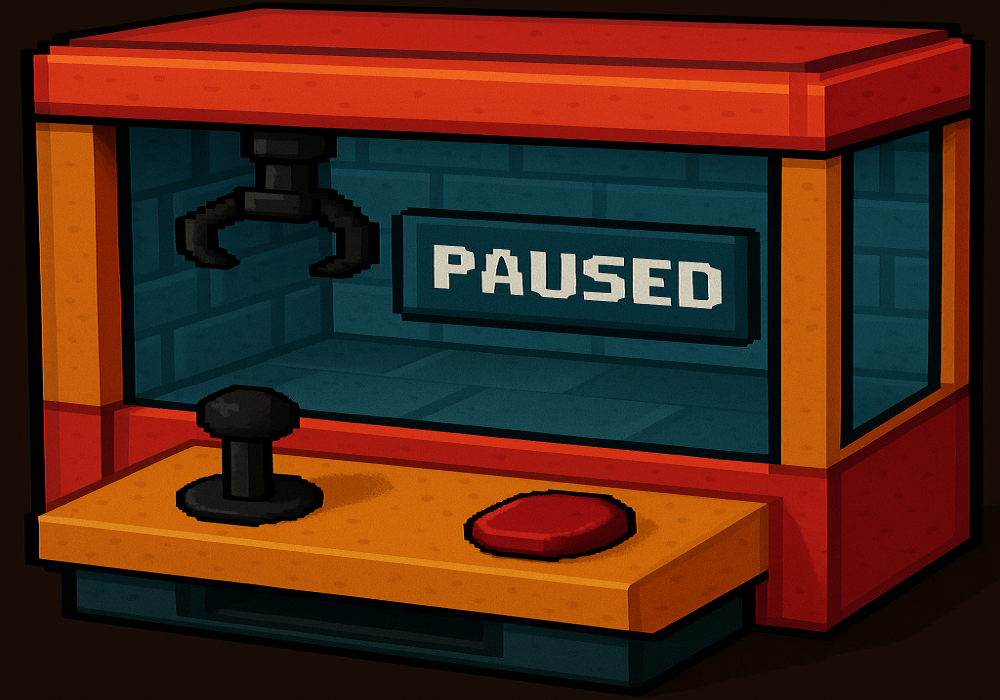
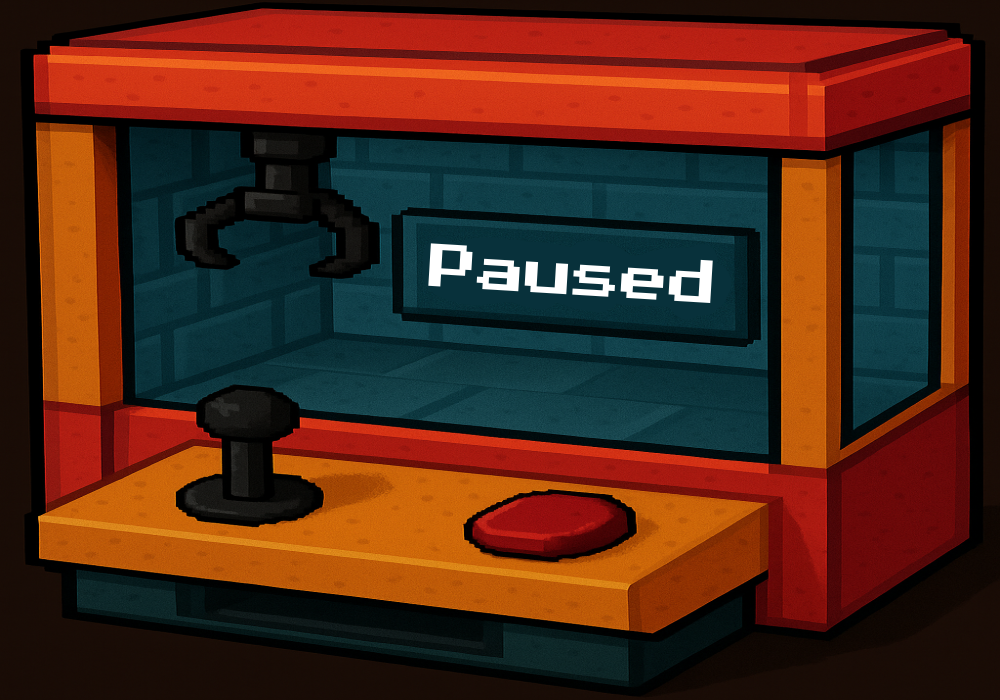
Inclusao de readme

Changed region(s): [[0.403, 0.33, 0.744, 0.45]]

diff --git a/main.py b/main.py
@@ -14,7 +14,7 @@ tamanho = (1000,700)
 relogio = pygame.time.Clock()
 tela = pygame.display.set_mode(tamanho) 
 pygame.display.set_caption("A Garra")
-icone  = pygame.image.load("recursos/ursinho_dourado.png")
+icone  = pygame.image.load("recursos/icoUrsinho_dourado.ico")
 pygame.display.set_icon(icone)
 branco = (255,255,255)
 preto = (0, 0 ,0 )
@@ -24,7 +24,6 @@ fundoJogo = pygame.image.load("recursos/telaJogo.png")
 fundoPerdeu = pygame.image.load("recursos/telaPerdeu.png")
 maquinaCima = pygame.image.load("recursos/telaJogoMaquinaCima.png")
 joyStick = pygame.image.load("recursos/telaJoySticksemfundo.png")
-fundoPause = pygame.image.load("recursos/paused.png")
 buracoUrso = pygame.image.load("recursos/buracoUrso.png")
 engrenagem = pygame.image.load("recursos/engrenagemSemfundo.png").convert_alpha()
 somCaptura = pygame.mixer.Sound("recursos/pickup_2.wav")
@@ -118,9 +117,9 @@ def jogar():
     ursosVogaisPegos = []
     ursosConsoantesPegos = []
 
-    urso_img = pygame.image.load("recursos/ursinho_dourado.png").convert_alpha()
+    ursoDourado = pygame.image.load("recursos/ursinho_dourado.png").convert_alpha()
     tamanho = 36
-    urso_img = pygame.transform.scale(urso_img, (tamanho, tamanho))
+    ursoDourado = pygame.transform.scale(ursoDourado, (tamanho, tamanho))
 
     ursoAleatorioXMin = 750
     ursoAleatorioXMax = 900
@@ -133,8 +132,8 @@ def jogar():
 
     # Direção de movimento aleatória
     velocidade = 0.5
-    dx = random.uniform(-1, 1)
-    dy = random.uniform(-1, 1)
+    direcaoAleatoriaX = random.uniform(-1, 1)
+    direcaoAleatoriaY = random.uniform(-1, 1)
 
 
     # Temporizador para trocar a direção
@@ -143,7 +142,7 @@ def jogar():
 
     angulo = 0
     tempo = 0
-    raio_base = 64
+    raioBase = 64
 
     while True:
         eventos = pygame.event.get()
@@ -173,6 +172,10 @@ def jogar():
             elif evento.type == pygame.KEYDOWN and evento.key == pygame.K_SPACE:
                 pause = True
                 while pause:
+                    if ptbr:
+                        fundoPause = pygame.image.load("recursos/pausado.png")
+                    else:
+                        fundoPause = pygame.image.load("recursos/paused.png")
                     tela.blit(fundoPause, (0,0))
                     pygame.display.update()
         
@@ -216,7 +219,7 @@ def jogar():
         else:
             texto = fontePontos.render("Points: "+str(pontos), True, branco)
 
-        tela.blit(texto, (470,65))
+        tela.blit(texto, (400,55))
         if ptbr:
             texto = fonteMenu.render("Pressione Espaço para Pausar o Jogo", True, branco) 
         else: 
@@ -226,7 +229,6 @@ def jogar():
         
         garraRect = pygame.Rect(posicaoXGarra, posicaoYGarra, larguraGarra, alturaGarra)
 
-        
         for nomeUrso, dadosUrso in ursos.items():
             ursoRect = pygame.Rect(dadosUrso[1], dadosUrso[2], larguraUrso, alturaUrso)    
         
@@ -268,18 +270,18 @@ def jogar():
             escreverDados(nome, pontos)
             perdeu()
 
-        if len(ursosVogaisPegos) == 1:
+        if len(ursosVogaisPegos) == 5:
             print("vitoria")
             telaVitoria()
 
         # Mover o ursinho
-        x += dx * velocidade
-        y += dy * velocidade
+        x += direcaoAleatoriaX * velocidade
+        y += direcaoAleatoriaY * velocidade
 
         if x < ursoAleatorioXMin or x > ursoAleatorioXMax:
-            dx *= -1
+            direcaoAleatoriaX *= -1
         if y < ursoAleatorioYMin or y > ursoAleatorioYMax:
-            dy *= -1
+            direcaoAleatoriaY *= -1
 
         # Trocar direção a cada intervalo de tempo
         agora = pygame.time.get_ticks()
@@ -288,31 +290,32 @@ def jogar():
             dy = random.uniform(-1, 1)
             ultimo_tempo = agora
 
-        # Desenhar o ursinho na tela
-        tela.blit(urso_img, (int(x - tamanho // 2), int(y - tamanho // 2)))
+        tela.blit(ursoDourado, (int(x - tamanho // 2), int(y - tamanho // 2)))
 
 
         # Atualiza o ângulo e o fator de escala (pulsação)
         angulo += 0.75
         tempo += 0.05
         escala = 1 + 0.1 * math.sin(tempo)  # Efeito de pulsar
-        tamanho = int(raio_base * 2 * escala)
+        tamanho = int(raioBase * 2 * escala)
         
         # Redimensiona e rotaciona a imagem
-        engrenagem_escalada = pygame.transform.smoothscale(engrenagem, (tamanho, tamanho))
-        engrenagem_rotacionada = pygame.transform.rotate(engrenagem_escalada, angulo)
+        engrenagemEscalada = pygame.transform.smoothscale(engrenagem, (tamanho, tamanho))
+        engrenagemRotacionada = pygame.transform.rotate(engrenagemEscalada, angulo)
 
-        # Calcula posição para o canto superior direito
-        engrenagem_rect = engrenagem_rotacionada.get_rect(topright=(1050, -50))
+        engrenagemRect = engrenagemRotacionada.get_rect(topright=(1050, -50))
 
-        tela.blit(engrenagem_rotacionada, engrenagem_rect)
+        tela.blit(engrenagemRotacionada, engrenagemRect)
 
         pygame.display.update()
         relogio.tick(60)
 
 
 def telaVitoria():
-    fundoVitoria = pygame.image.load("recursos/telaVitoria.png")
+    if ptbr:
+        fundoVitoria = pygame.image.load("recursos/telaVitoria.png")
+    else:
+        fundoVitoria = pygame.image.load("recursos/telaVictory.png")
     textoVitoria = fonteNome.render(f"{nome}", True, branco)
 
     larguraButtonStart = 350
@@ -372,7 +375,10 @@ def telaVitoria():
 
 def telaBoasVindas():
     # Carregar fundo da tela de boas-vindas
-    fundoBoasVindas = pygame.image.load("recursos/telaBoasVindas.png")
+    if ptbr:
+        fundoBoasVindas = pygame.image.load("recursos/telaBoasVindas.png")
+    else:
+        fundoBoasVindas = pygame.image.load("recursos/telaWelcome.png")
     textoBemVindo = fonteNome.render(f"{nome}", True, branco)
     falar("Bem vindo", nome) if ptbr else falar("Welcome", nome)
 
@@ -392,7 +398,7 @@ def telaBoasVindas():
 
 
 def start():
-    global ptbr
+    global ptbr, falaResultado
     ptbr = True
     def botoes(caminhoButtonPlay, caminhoButtonQuit):
             global startRect, quitRect, botaoPtBrRect, botaoEnUsRect
@@ -412,7 +418,7 @@ def start():
             botaoEnUsRect = botaoEnUs.get_rect(topleft=(800,115))
             tela.blit(botaoEnUs,(800,115))    
 
-    thread_voz = threading.Thread(target=ouvir)
+    thread_voz = threading.Thread(target=ouvir, daemon=True)
     thread_voz.start()
 
     larguraButtonStart = 355
@@ -475,17 +481,20 @@ def start():
                     larguraButtonEnUs = 150
                     alturaButtonEnUs = 81
                     ptbr = False
-                else:
-                    if falaResultado:
-                        if "começar" in falaResultado or "iniciar" in falaResultado or "start" in falaResultado:
-                            pygame.mixer.music.play(-1)
-                            pygame.mixer.Sound.play(somClique)
-                            jogar()
-                        elif "sair" in falaResultado or "fechar" in falaResultado or "quit" in falaResultado:
-                            pygame.mixer.music.play(-1)
-                            pygame.mixer.Sound.play(somClique)
-                            quit()
-                        falaResultado = None
+
+        if falaResultado:
+            fala = falaResultado.strip().lower()
+            print(f"[DEBUG TESTE] falaResultado atual: {fala}")
+            falaResultado = None
+            if "começar" in fala or "iniciar" in fala:
+                pygame.mixer.music.play(-1)
+                pygame.mixer.Sound.play(somClique)
+                jogar()
+            elif "sair" in fala or "fechar" in fala:
+                pygame.mixer.music.play(-1)
+                pygame.mixer.Sound.play(somClique)
+                quit()
+            falaResultado = None
 
 
 def perdeu():

diff --git a/recursos/funcoesVoz.py b/recursos/funcoesVoz.py
@@ -12,14 +12,20 @@ def ouvir():
     global falaResultado
     recognizer = controladorVoz.Recognizer()
     with controladorVoz.Microphone() as source:
-        print("Diga Algo...")
-        print("Fique em silêncio para finalizar!")
         recognizer.adjust_for_ambient_noise(source)
-        audio = recognizer.listen(source)
-        try:
-            falaResultado = recognizer.recognize_google(audio, language='pt-BR')
-            print(f"Você disse: {falaResultado}")
-        except controladorVoz.UnknownValueError:
-            falaResultado = ""
-        except controladorVoz.RequestError:
-            falaResultado = ""
+
+        while True:
+            try:
+                print("[OUVIR] Aguardando fala...")
+                audio = recognizer.listen(source, timeout=5, phrase_time_limit=5)
+                fala = recognizer.recognize_google(audio, language='pt-BR')
+                print(f"[OUVIR] Você disse: {fala}")
+                falaResultado = fala.lower()
+            except controladorVoz.UnknownValueError:
+                print("[OUVIR] Não entendi o que foi dito.")
+                falaResultado = ""
+            except controladorVoz.RequestError:
+                print("[OUVIR] Erro ao acessar o serviço de reconhecimento.")
+                falaResultado = ""
+            except Exception as e:
+                print(f"[OUVIR] Erro inesperado: {e}")

diff --git a/setup.py b/setup.py
@@ -1,13 +1,20 @@
 # pip install cx_freeze
 import cx_Freeze
 executaveis = [ 
-               cx_Freeze.Executable(script="main.py", icon="assets/icone.ico") ]
+               cx_Freeze.Executable(script="main.py", icon="recursos/icoUrsinho_dourado.ico") ]
 cx_Freeze.setup(
-    name = "Iron Man",
+    name = "A Garra",
     options={
         "build_exe":{
-            "packages":["pygame"],
-            "include_files":["assets"]
+            "packages":["pygame",
+                        "pyttsx3",
+                        "SpeechRecognition",
+                        "pyaudio",
+                        "random",
+                        "math",
+                        "threading"],
+            "include_files":["recursos",
+                             "log.dat"]
         }
     }, executables = executaveis
 )

diff --git a/readme.md b/readme.md
@@ -1,7 +1,12 @@
 Desenvolvido por Pedro Konig Scheurer
 RA: 1137877
 
-O jogador controla a Garra, a qual é usada para agarrar os ursinhos de pelúcia e entrega-los ao Buraco, porém, ele deve tomar cuidado, pois o Buraco não gosta nenhum pouco dos ursinhos da família das consoantes. Com isso, ele deve entregar somente os ursinhos da família das Vogais ao Buraco para que ganhe o jogo.
+O jogador controla a Garra, a qual é usada para agarrar os ursinhos de pelúcia e entrega-los ao Buraco, porém, ele deve tomar cuidado, pois o Buraco não gosta nenhum pouco dos ursinhos da família das consoantes. Com isso, ele deve entregar somente os ursinhos da família das Vogais ao Buraco para que saia vitorioso.
 
 Tecnologias Utilizadas:
 Python (3.13), pyGame (2.6.1), pyttsx3 (2.98), tkinter (nativa Python), random (nativa Python), math (nativa Python), threading (nativa Python), speech_recognition (3.14.3), cx_Freeze (8.3.0)
+
+
+Projeto Jogo 2D
+
+Projeto desenvolvido em Python, voltado para crianças de 5 a 7 anos em processo de alfabetização e com suporte para os idiomas PT-BR e EN-US, com objetivo de diferenciarem as letras vogais das consoantes.
